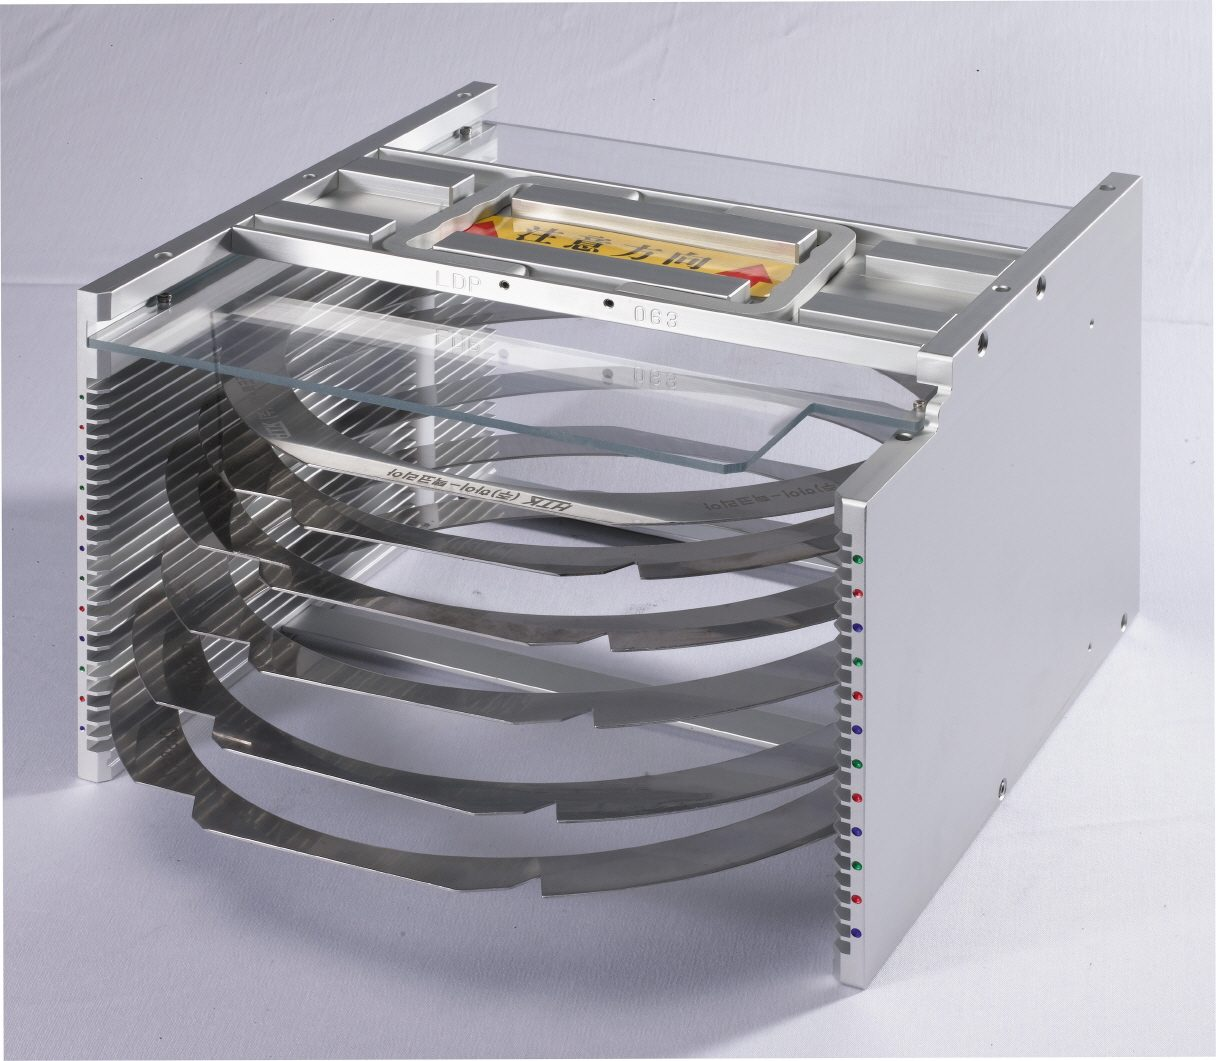
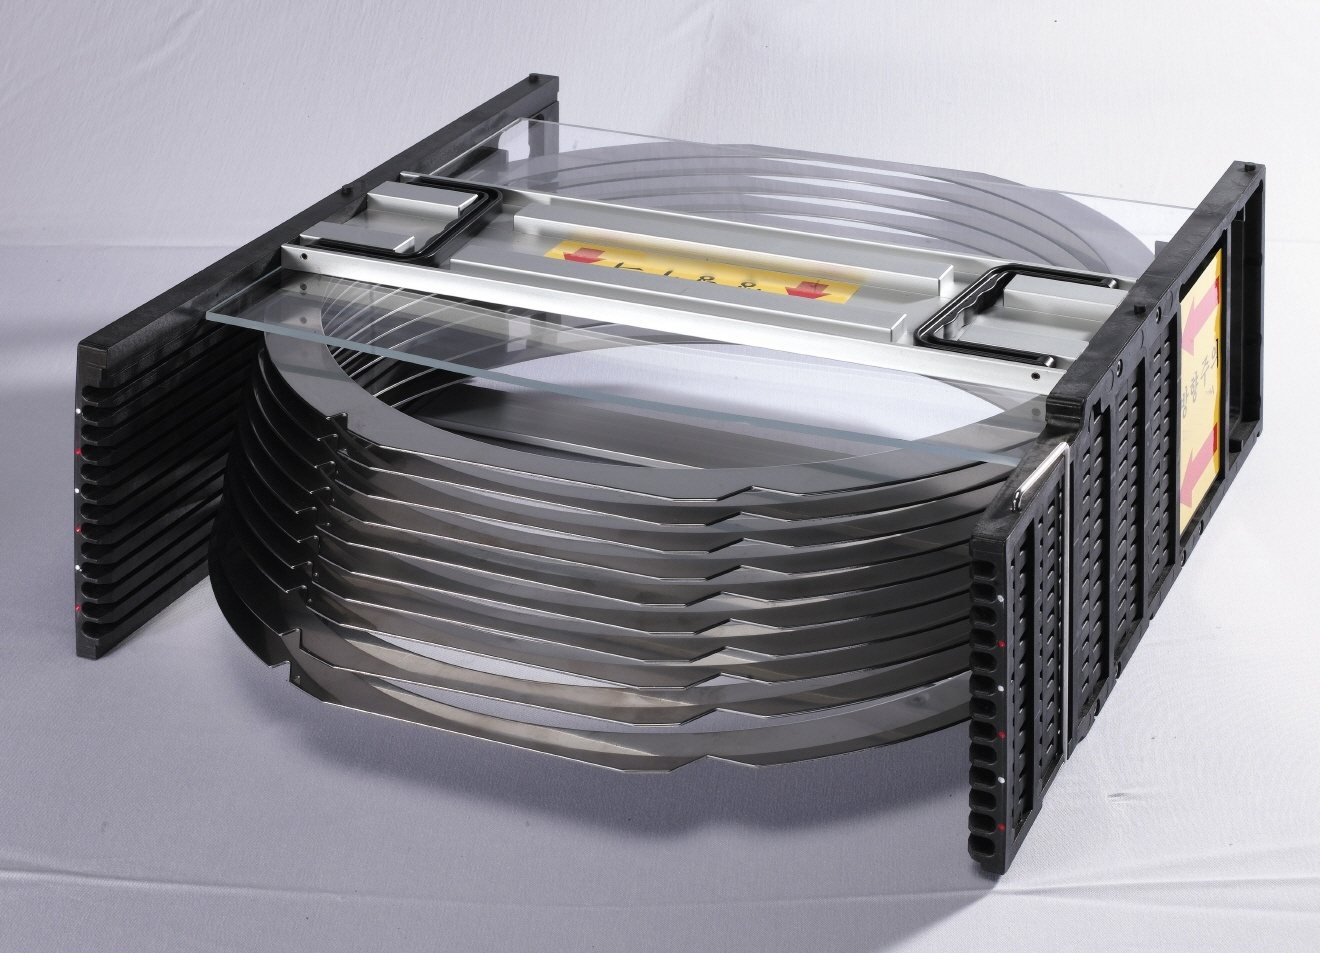
Remove old company name from product images, add pin boat image
- Cassette: switch to photo without engraved rings; paint out label text
- Wafer ring and pin boat: studio renders from the site's 3D model
- Magazine panel shows blue and silver magazines side by side

Claude-Session: https://claude.ai/code/session_01VWRtDqz2kgaCpNn5PLyHML

diff --git a/company/index.html b/company/index.html
@@ -103,7 +103,7 @@
       <div class="products-track">
 
         <article class="panel">
-          <div class="panel-img studio contain"><span class="ghost">MAGAZINE</span><img src="images/magazine.jpg" alt="Magazine" onerror="this.remove()" /></div>
+          <div class="panel-img studio contain duo"><img src="images/magazine-blue.jpg" alt="블루 아노다이징 리드프레임 매거진" /><img src="images/magazine.jpg" alt="알루미늄 리드프레임 매거진" /></div>
           <div class="panel-body">
             <span class="panel-no mono">01 / 04</span>
             <h3>Magazine</h3>
@@ -139,7 +139,7 @@
         </article>
 
         <article class="panel">
-          <div class="panel-img"><span class="ghost">PIN BOAT</span><img src="images/pinboat.jpg" alt="Pin Boat" onerror="this.remove()" /></div>
+          <div class="panel-img studio"><span class="ghost">PIN BOAT</span><img src="images/pinboat.jpg" alt="Pin Boat" onerror="this.remove()" /></div>
           <div class="panel-body">
             <span class="panel-no mono">04 / 04</span>
             <h3>Pin Boat</h3>

diff --git a/company/site.css b/company/site.css
@@ -264,3 +264,5 @@ section { position: relative; }
 .panel-img.studio.contain { background: #fff; }
 .panel-img.studio.contain img { object-fit: contain; padding: 6%; }
 .panel-img.studio .ghost { display: none; }
+.panel-img.duo { display: grid; grid-template-columns: 1fr 1fr; align-items: center; }
+.panel-img.duo img { position: relative; inset: auto; height: 100%; padding: 8% 4%; }
